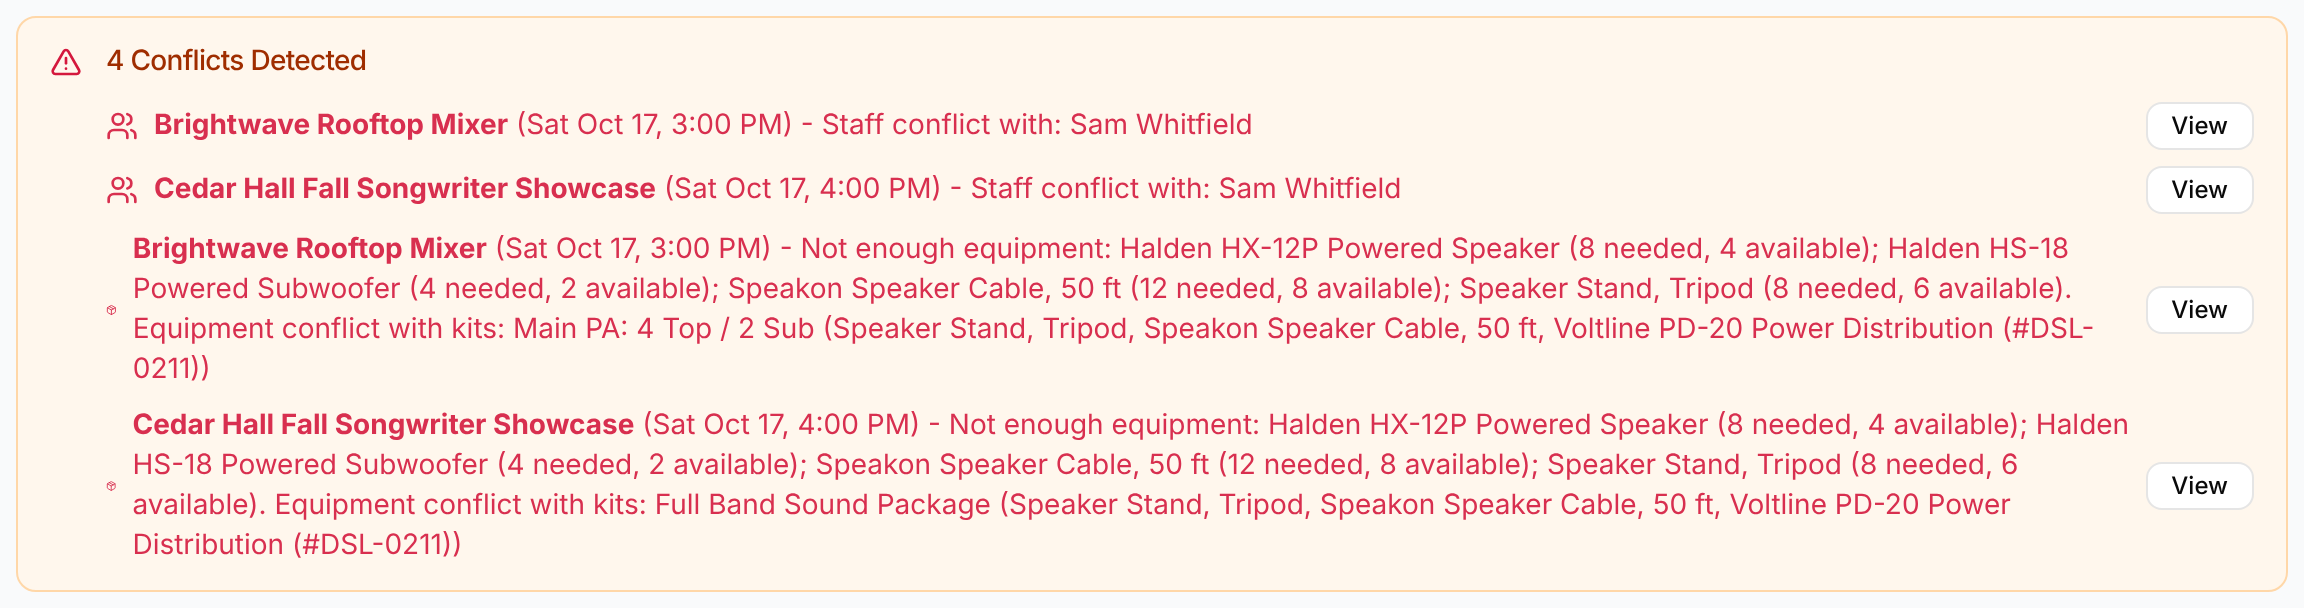
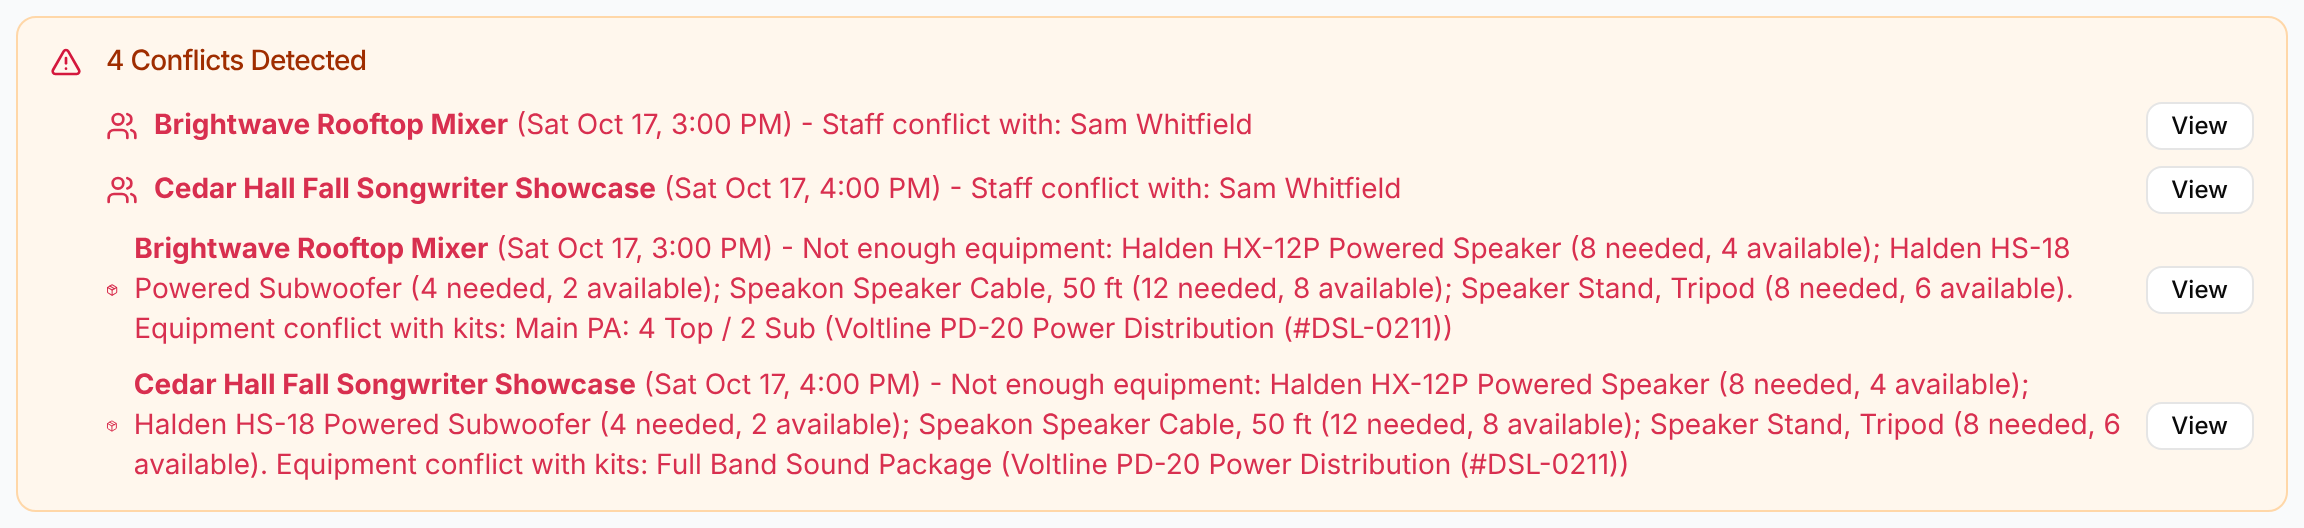
User guide: same-unit conflicts after #238 (tracked units, containers as one); conflict shots retaken from main
The app code on this branch equals main (d08e965); taken.json's appCommit
for the eight #235 shots now names that commit. Reporting shots were
retaken too and came out identical.

Claude-Session: https://claude.ai/code/session_0118YwkJXDrQDMYNEuMW5wT3

diff --git a/website/docs/src/content/docs/gigs/conflict-detection.md b/website/docs/src/content/docs/gigs/conflict-detection.md
@@ -17,8 +17,7 @@ Two gigs conflict when their times overlap, including gigs where one ends just a
 - **Staff:** the same person is assigned to both gigs.
 - **Venue or act:** the same organization is a participant with the **Venue** role, or the **Act** role, on both gigs.
 - **Equipment:** the gigs need more of an item than you have free. GigWrangler counts how many of each item the kits on each gig ask for, whether specific units or "any" lines such as "4 × any Halden HX-12P Powered Speaker", and adds up the gigs that are on at the same moment. If that's more than you have free, it's flagged. **Free** means units that are Active and not retired, not counting any packed inside a container kit. Only your own organization's kits count.
-- **The same unit:** a tracked unit (one with a serial number or tag) that's in kits on both gigs is flagged too, even when it comes in different kits. For example, the "Full Band Sound Package" contains the "Main PA" kit, so assigning the package to one gig and the Main PA to an overlapping gig flags the PA's power distro, PD-20 (#DSL-0211). Items and lots, such as cables and stands, show only under "Not enough equipment", when there aren't enough of them.
-<!-- TODO: Equipment Lead's same-unit PR — check the exact wording on dev and retake the banner and gig-page shots once it merges. -->
+- **The same unit:** a tracked unit (one with a serial number or tag) that's in kits on both gigs is flagged too, even when it comes in different kits. A container kit, such as the "Mic Case", counts as one unit. For example, the "Full Band Sound Package" contains the "Main PA" kit, so assigning the package to one gig and the Main PA to an overlapping gig adds "Equipment conflict with kits: Main PA: 4 Top / 2 Sub (Voltline PD-20 Power Distribution (#DSL-0211))". Items and lots, such as cables and stands, show only under "Not enough equipment", when there aren't enough of them.
 
 Gigs with no start time count as the whole day in the gig's time zone. **Cancelled** gigs are ignored.
 
